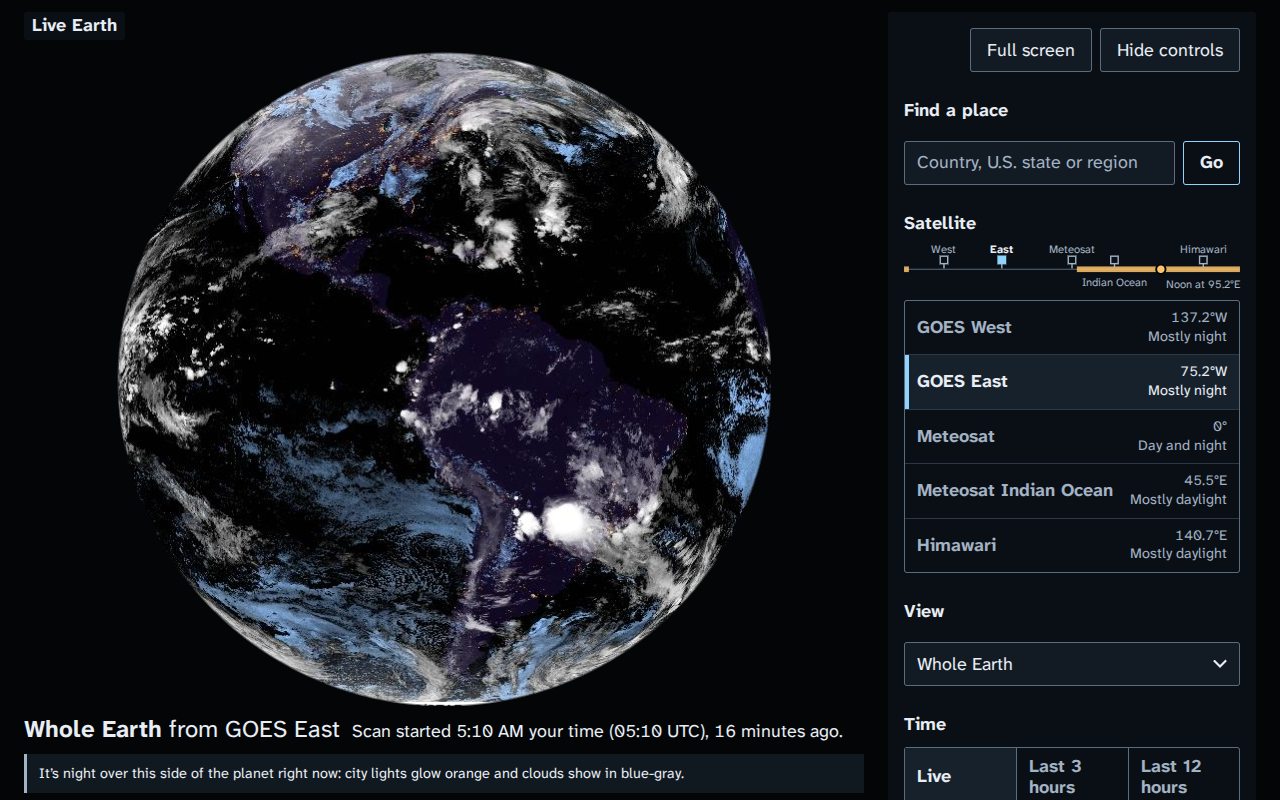
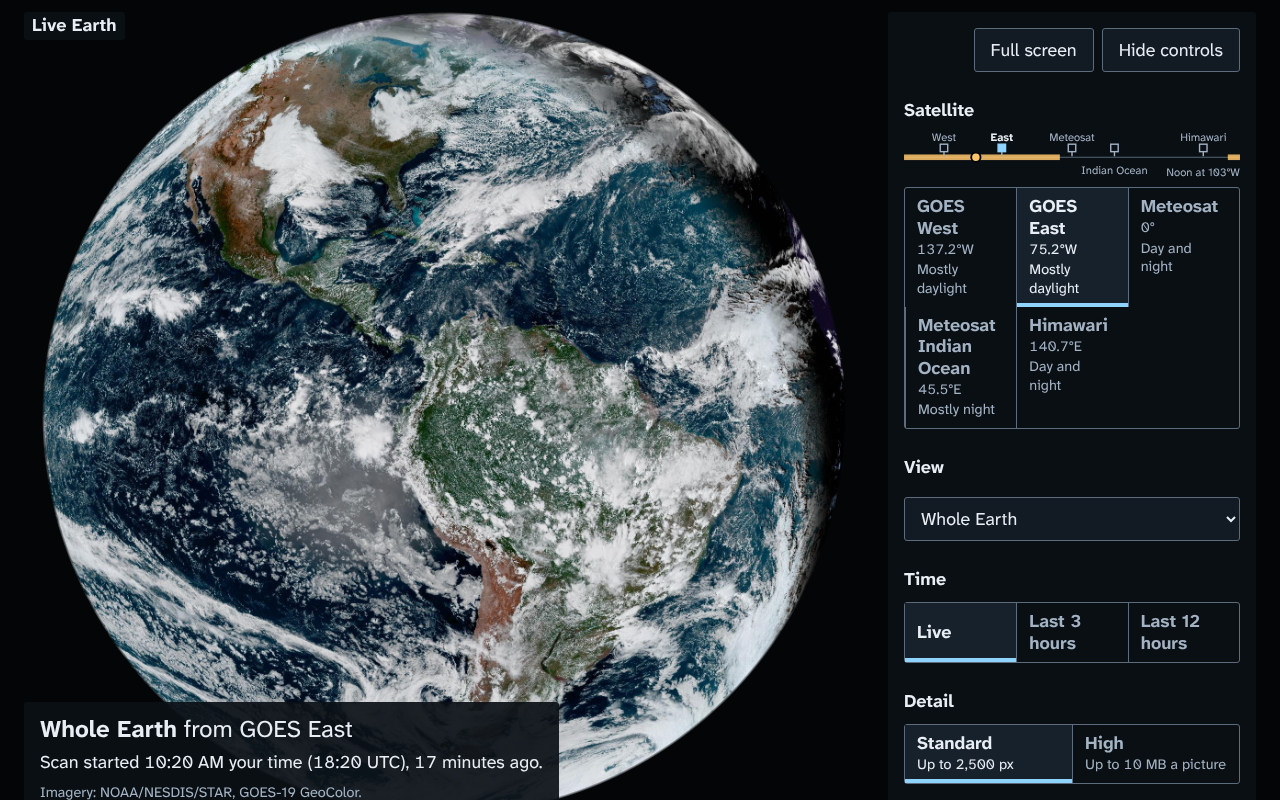
Card screenshots: Live Earth waits for daylight, share cards match only card images, preview trigger removed

diff --git a/src/data/projects.ts b/src/data/projects.ts
@@ -100,7 +100,7 @@ export const projects: Project[] = [
     started: 'November 2026',
     repo: 'kyle-pace/recipe-search',
     imageAlt:
-      'A search box holding “from The Woks of Life”, “ginger” and “tofu” as tags, above rows of dish photos and recipe names.',
+      'The finDish logo over a search box holding “from The Woks of Life”, “ginger” and “tofu” as tags, above rows of dish photos and recipe names.',
   },
   {
     slug: 'live-earth',

diff --git a/scripts/screenshot-projects.py b/scripts/screenshot-projects.py
@@ -65,6 +65,13 @@ PATHS = {
     "cooking-reference": "#pork",  # what goes with pork
 }
 
+# Projects whose picture is only worth showing in daylight: the UTC hours to take them in.
+# Live Earth shows the Americas from GOES East, lit roughly 13:00 to 22:00 UTC. Outside
+# those hours its card waits for the next run instead of showing the night side.
+DAYLIGHT_UTC = {
+    "live-earth": range(13, 22),
+}
+
 # Projects that load their main picture after the page is up: wait until this is true.
 READY = {
     "live-earth": "document.querySelector('[data-status]')?.hidden && !document.querySelector('.is-loading')",
@@ -190,7 +197,7 @@ def share_cards_showing(changed):
     """Share cards that show a changed card image, as design/og-<name>.html -> public/og-<name>.png."""
     return [
         html for html in sorted((ROOT / "design").glob("og-*.html"))
-        if any(f"/{image_path(n).parent.name}/{n}.png" in html.read_text() for n in changed)
+        if any(str(image_path(n).relative_to(ROOT)) in html.read_text() for n in changed)
     ]
 
 
@@ -222,6 +229,9 @@ async def main():
             args=["--use-angle=swiftshader", "--enable-unsafe-swiftshader"],
         )
         for name in names:
+            if name in DAYLIGHT_UTC and now.hour not in DAYLIGHT_UTC[name]:
+                print(f"{name}: waiting for daylight")
+                continue
             dest = image_path(name)
             new = dest.with_suffix(".new.png")
             try:

diff --git a/.agents/skills/card-screenshots/SKILL.md b/.agents/skills/card-screenshots/SKILL.md
@@ -27,6 +27,7 @@ The workflow only knows what each page looks like from the settings below. Chang
 - **A card shows the wrong part of the page.** Add a CSS selector for the interesting part (the tree, the globe, the map) to `SELECTORS`, or put the project in `TOP_OF_PAGE` if its whole first screen is the app.
 - **A card opens empty.** Add a query string or `#hash` that shows a good state to `PATHS`.
 - **A card is caught loading.** Add a "ready" test to `READY`.
+- **A card only looks right at some hours** (Live Earth needs daylight over the Americas). Give its UTC hours in `DAYLIGHT_UTC`; outside them the card waits for the next run.
 
 Then update `imageAlt` in `src/data/projects.ts` or `src/data/apps.ts` so it describes what the new image shows.
 
